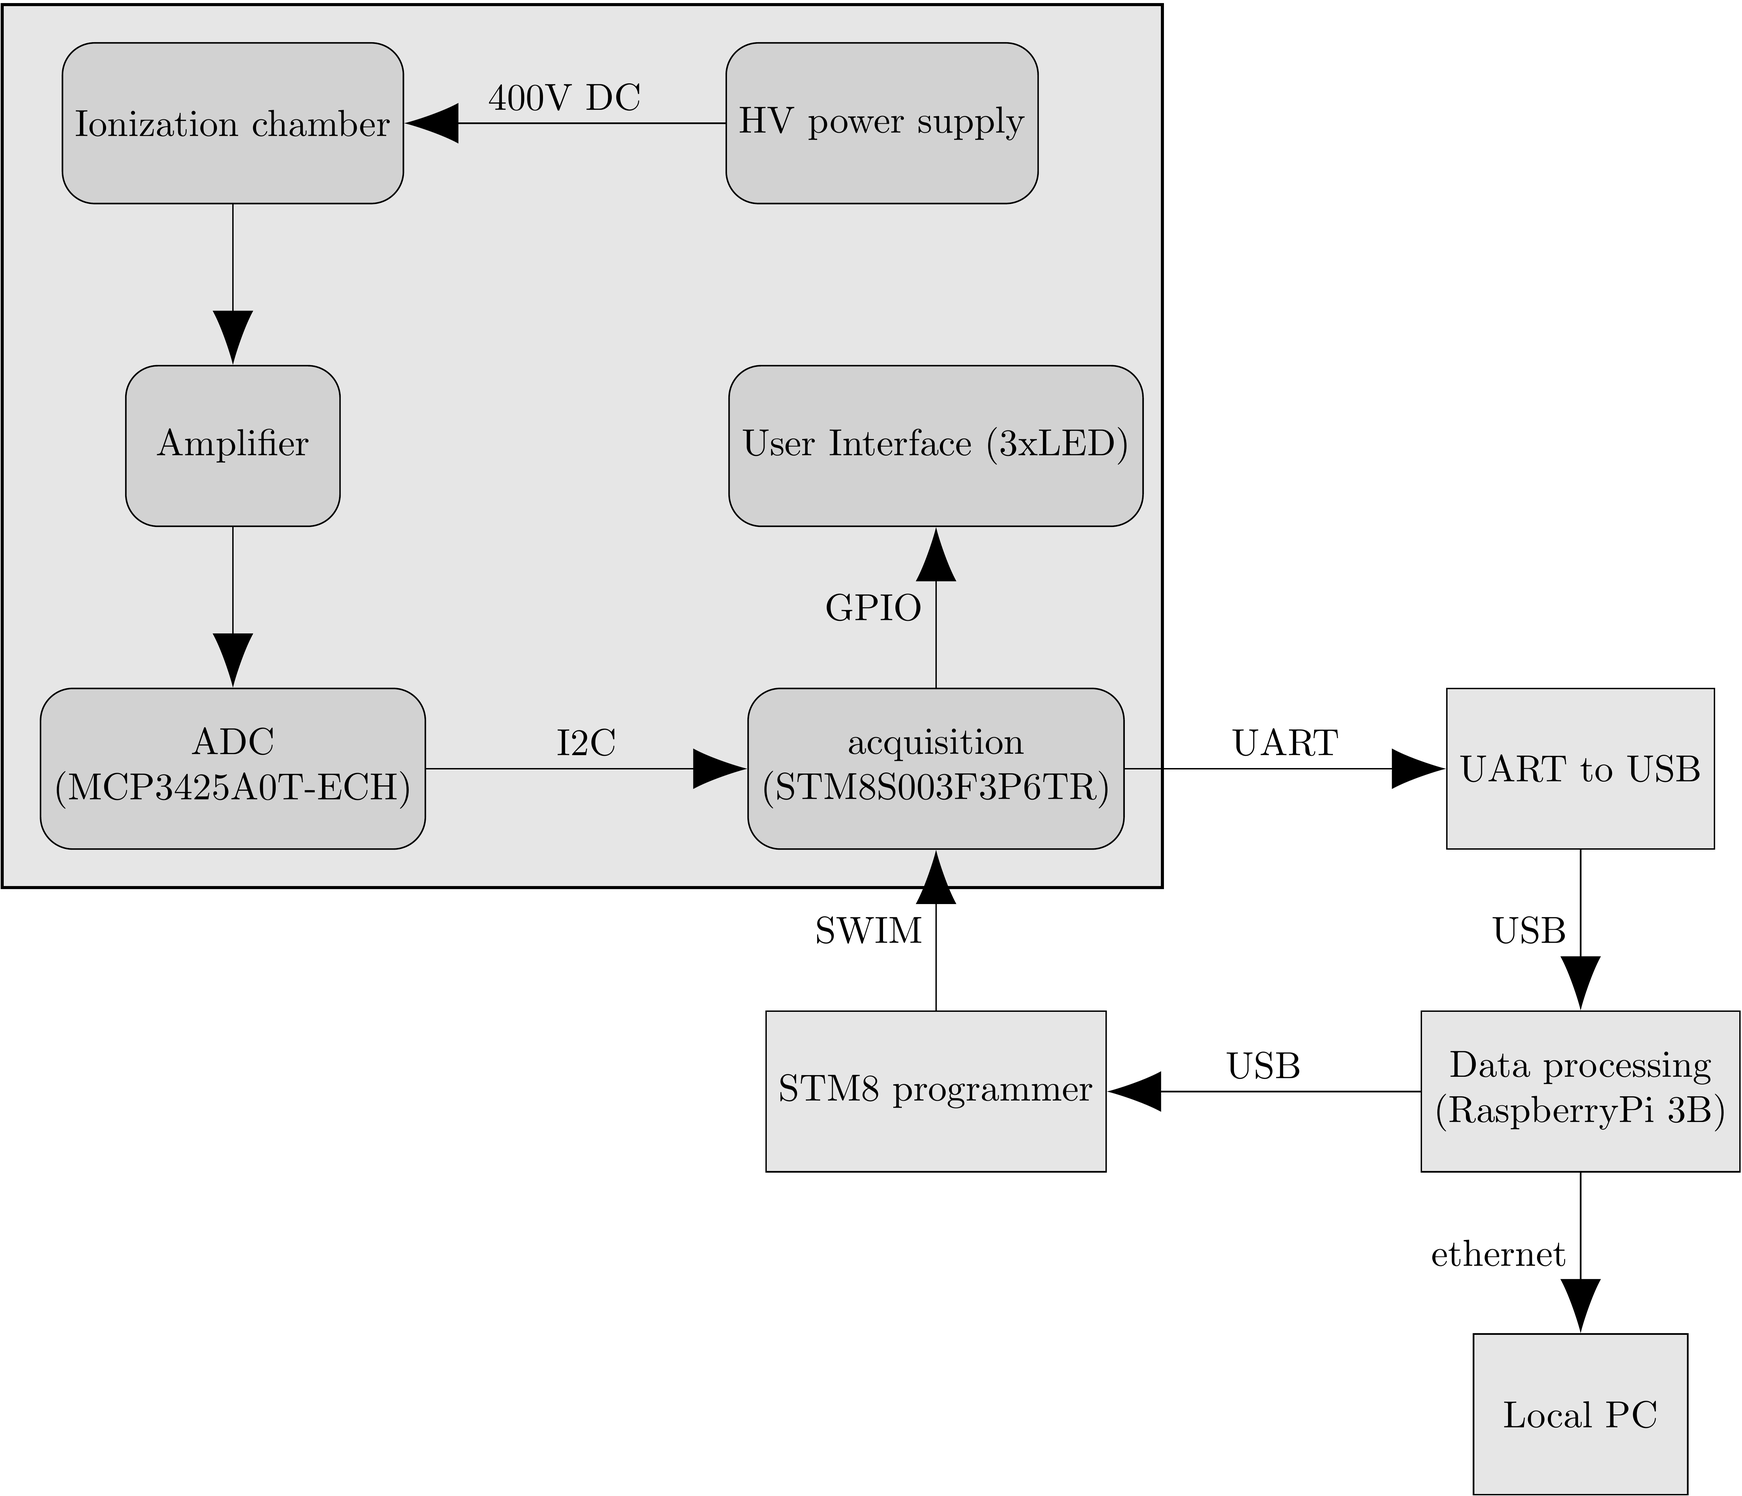
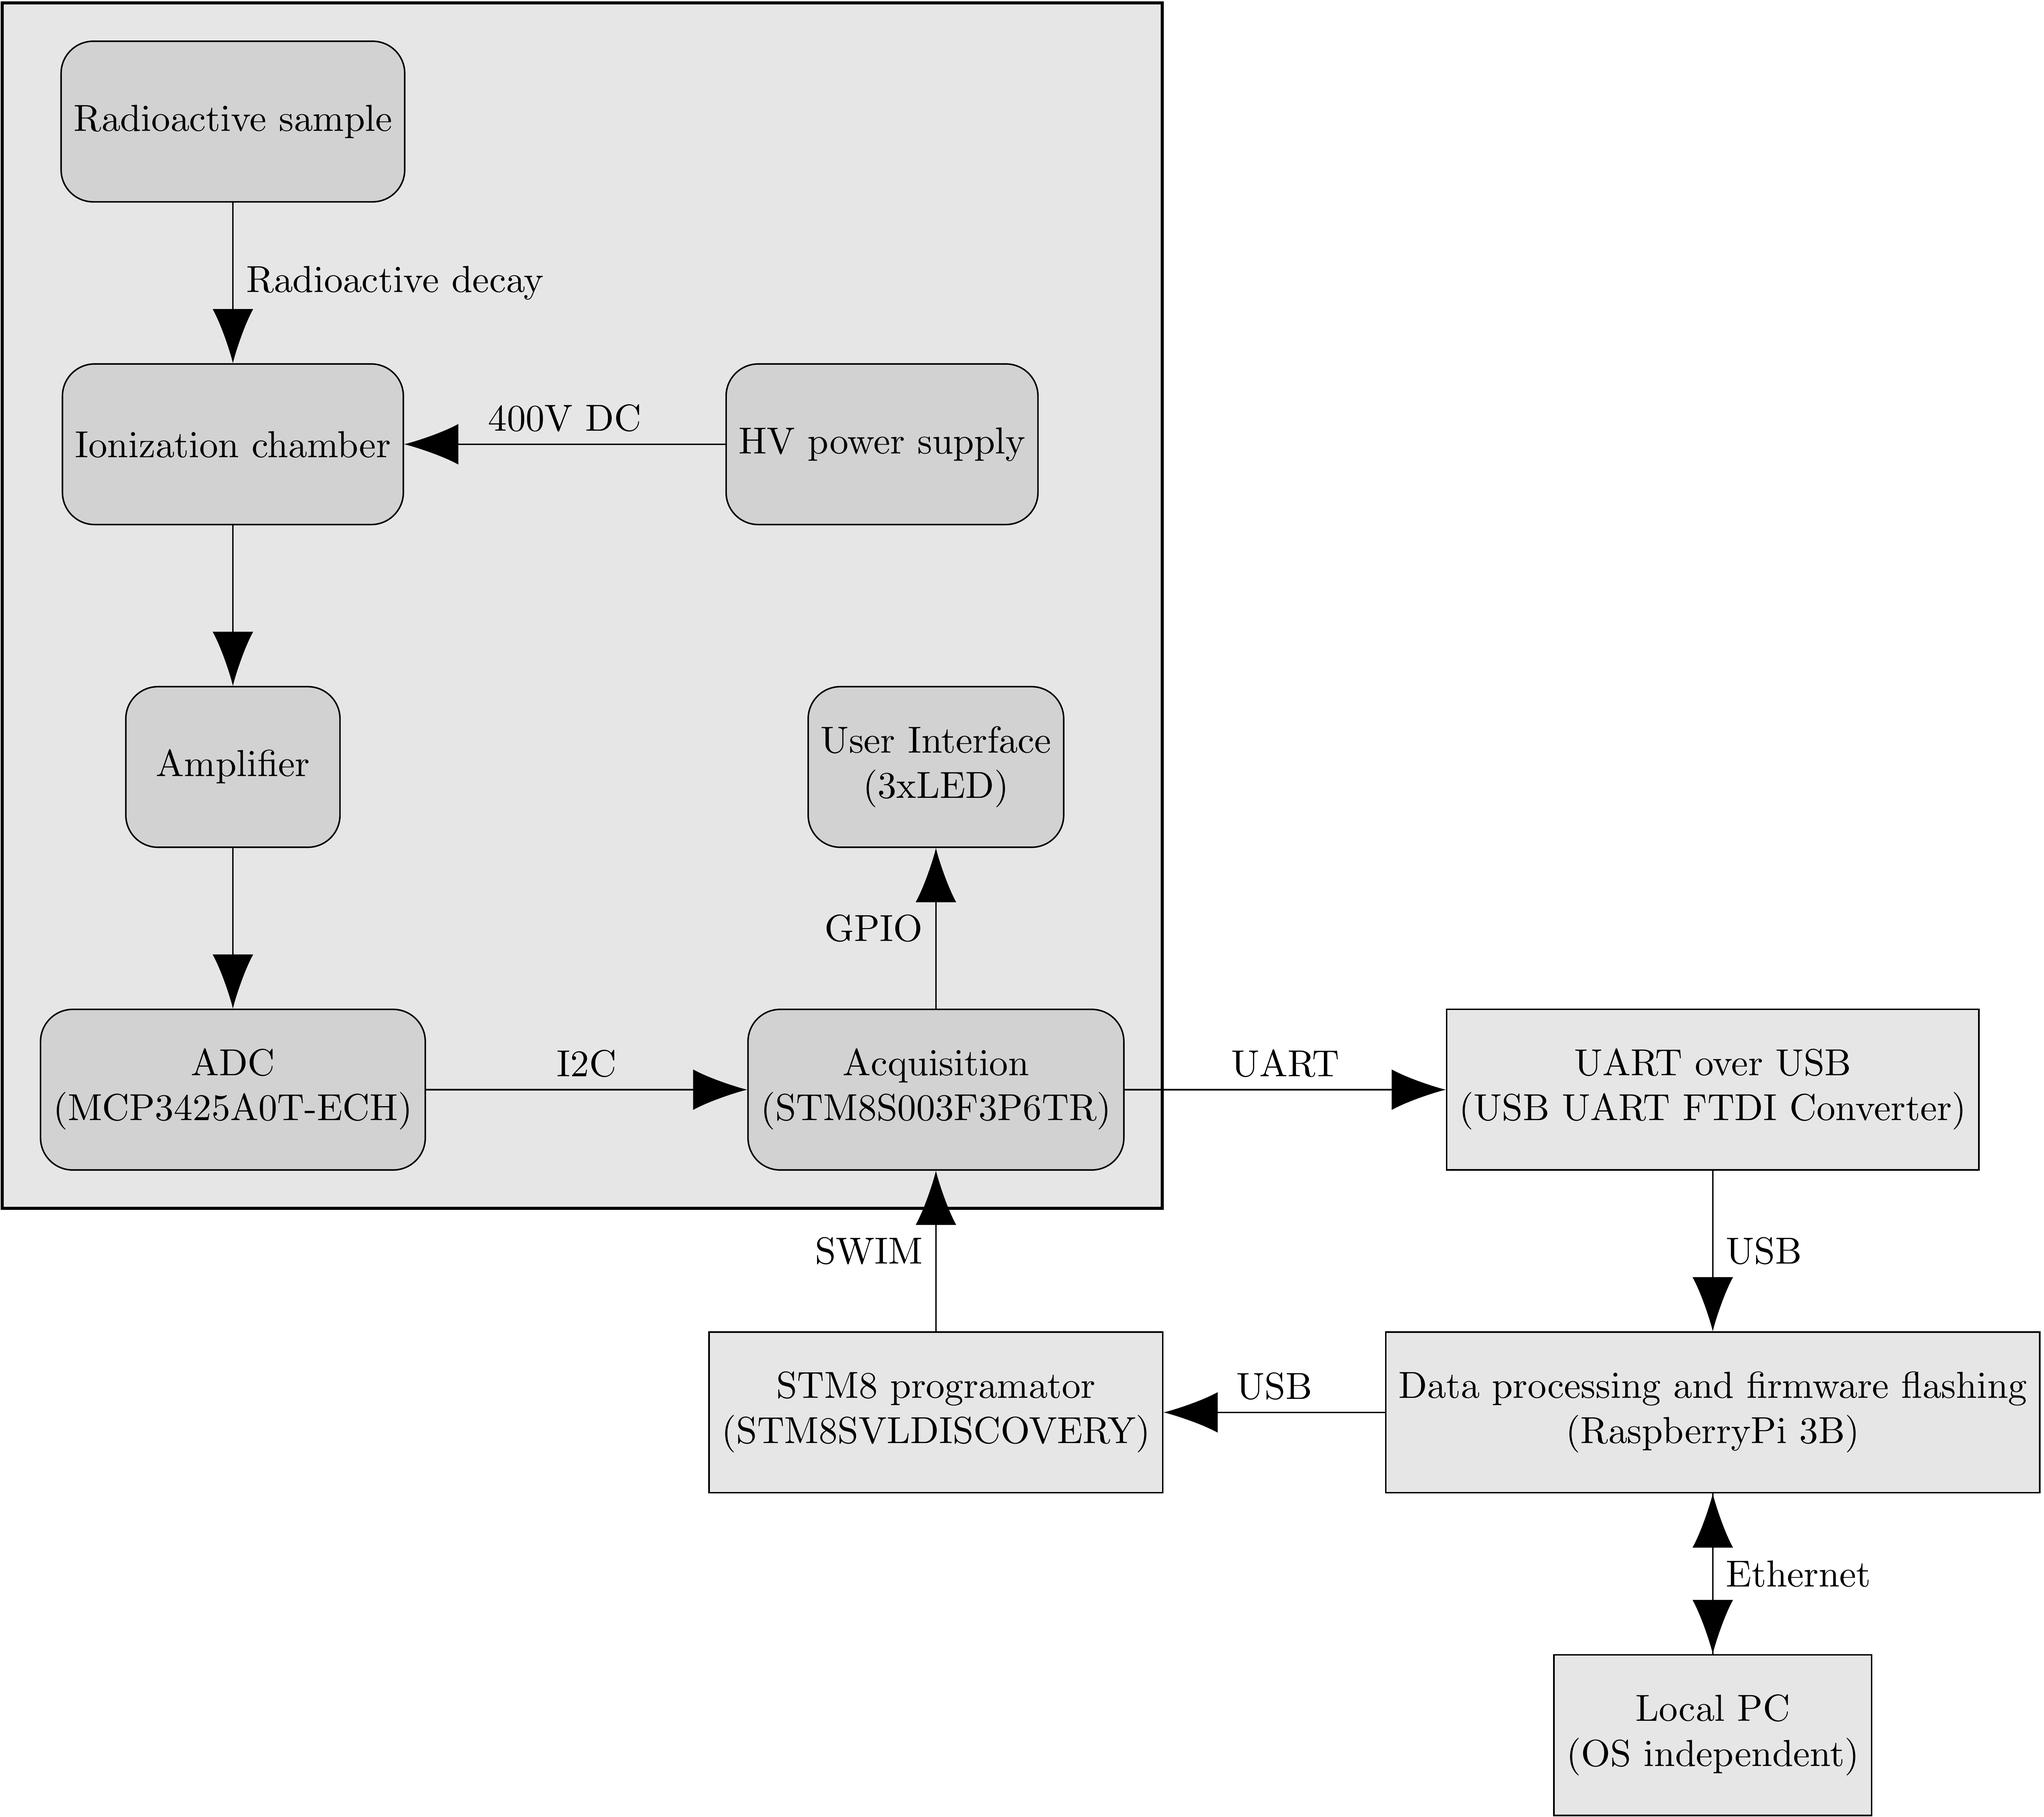
improved diagram

diff --git a/documentation/diagrams/ArchitectureOverview.tex b/documentation/diagrams/ArchitectureOverview.tex
@@ -17,28 +17,30 @@
 \pgfsetlayers{background,main}
 
 \node (chamber) [component] {Ionization chamber};
+\node (sample) [component, above=of chamber] {Radioactive sample};
+
 \node (hwpower) [component, right=of chamber] {HV power supply};
 \node (amplifier) [component, below=of chamber] {Amplifier};
 
 
 \node (adc) [component, below=of amplifier] {ADC\\  (MCP3425A0T-ECH)};
-\node (cpu) [component, right=of adc] {acquisition\\ (STM8S003F3P6TR)};
-\node (gui) [component, above=of cpu] {User Interface (3xLED)};
+\node (cpu) [component, right=of adc] {Acquisition\\ (STM8S003F3P6TR)};
+\node (gui) [component, above=of cpu] {User Interface\\ (3xLED)};
 
-\node (uartconverter) [system, right=of cpu] {UART to USB};
-\node (stm8programmer) [system, below=of cpu] {STM8 programmer};
+\node (uartconverter) [system, right=of cpu] {UART over USB\\ (USB UART FTDI Converter)};
+\node (stm8programmer) [system, below=of cpu] {STM8 programator\\ (STM8SVLDISCOVERY)};
 
-\node (pi) [system, below=of uartconverter] {Data processing\\ (RaspberryPi 3B)};
-\node (pc) [system, below=of pi] {Local PC};
+\node (pi) [system, below=of uartconverter] {Data processing and firmware flashing\\ (RaspberryPi 3B)};
+\node (pc) [system, below=of pi] {Local PC\\ (OS independent)};
 
 \begin{pgfonlayer}{background}
-\node[system ,  draw, thick,  inner xsep=1em, inner ysep=1em, fit=(chamber) (hwpower) (amplifier) (adc) (cpu) ] {};
+\node[system ,  draw, thick,  inner xsep=1em, inner ysep=1em, fit=(sample) (chamber) (hwpower) (amplifier) (adc) (cpu) ] {};
 \end{pgfonlayer}
 
 % Connectors
 \begin{scope}[->]
 
-
+\draw [-{Latex[scale=3.0]}] (sample) -- node[anchor=west, minimum width=.25cm, draw=none] {Radioactive decay} (chamber);
 \draw [-{Latex[scale=3.0]}] (hwpower) -- node[anchor=south, minimum width=.25cm, draw=none] {400V DC} (chamber);
 \draw [-{Latex[scale=3.0]}] (chamber) -- node[anchor=south, minimum height=.25cm, draw=none] {} (amplifier);
 \draw [-{Latex[scale=3.0]}] (amplifier) -- node[anchor=south, minimum height=.25cm, draw=none] {} (adc);
@@ -47,8 +49,10 @@
 \draw [-{Latex[scale=3.0]}] (adc) -- node[anchor=south, minimum height=.25cm, draw=none] {I2C} (cpu);
 \draw [-{Latex[scale=3.0]}] (stm8programmer) -- node[anchor=east, minimum height=.25cm, draw=none] {SWIM} (cpu);
 \draw [-{Latex[scale=3.0]}] (pi) -- node[anchor=south, minimum height=.25cm, draw=none] {USB} (stm8programmer);
-\draw [-{Latex[scale=3.0]}] (uartconverter) -- node[anchor=east, minimum height=.25cm, draw=none] {USB} (pi);
-\draw [-{Latex[scale=3.0]}] (pi) -- node[anchor=east, minimum height=.25cm, draw=none] {ethernet} (pc);
+\draw [-{Latex[scale=3.0]}] (uartconverter) -- node[anchor=west, minimum height=.25cm, draw=none] {USB} (pi);
+\draw [-{Latex[scale=3.0]}] (pi) -- node[anchor=west, minimum height=.25cm, draw=none] {Ethernet} (pc);
+\draw [-{Latex[scale=3.0]}] (pc) -- node[anchor=west, minimum height=.25cm, draw=none] {} (pi);
+
 
 
 
